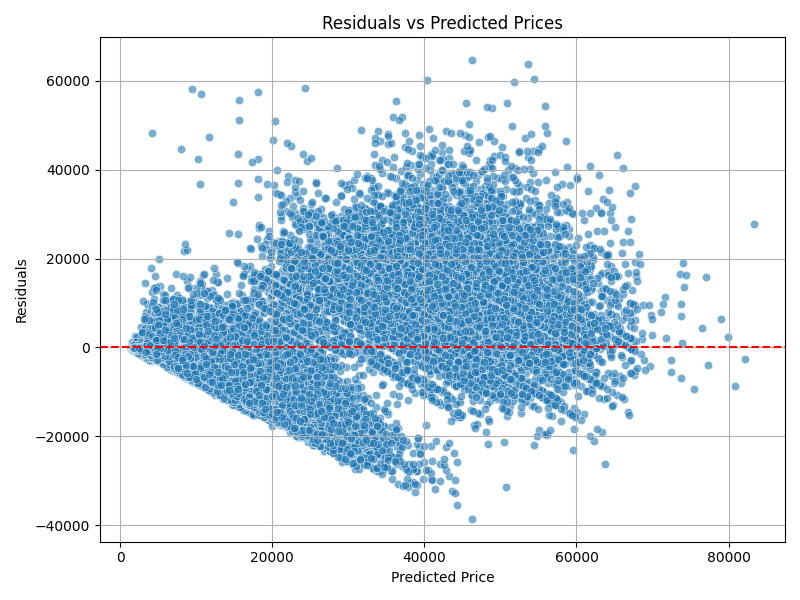
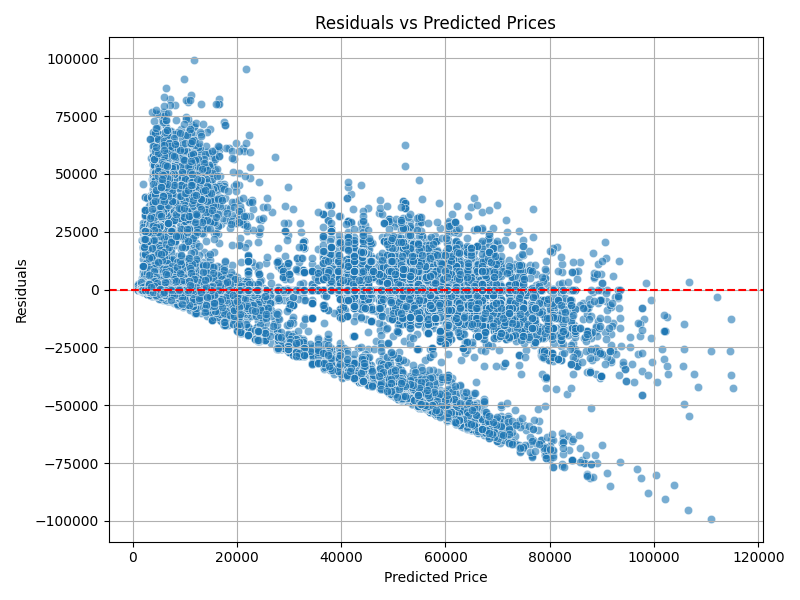
feat: random forest and knn working

diff --git a/src/models/knn.py b/src/models/knn.py
@@ -7,23 +7,26 @@ from sklearn.model_selection import train_test_split
 from sklearn.neighbors import KNeighborsRegressor
 
 
-def train_knn_model(df: pd.DataFrame):
+def train_knn_model(
+    df: pd.DataFrame
+):
     """
-    Train a K-Nearest Neighbors (KNN) regression model on a preprocessed DataFrame.
+    Train a  regression model on a preprocessed DataFrame.
+    Treina um modelo K-Nearest Neighbors (KNN) utilizando um DataFrame já pré-processado
 
     Args:
-        df (pd.DataFrame): Preprocessed dataset including the target column 'price'.
+        df (pd.DataFrame): Dataset já pré-processado, que incluí a coluna que deve ser predita, 'price'.
     """
-    # Categorical columns to encode
+    # Colunas com valores categóricos.
     categorical_cols: list = ["airline", "route_combined", "class"]
-    # One-hot encode categorical variables
+    # One-hot encode para dados categóricos.
     df = pd.get_dummies(df, columns=categorical_cols, drop_first=True)
 
-    # Features and target
     X = df.drop(columns=["price", "Unnamed: 0"], errors="ignore")
-    y = df["price"]
+    # Converte os valores de 'price' com log, para normalizar a resposta.
+    y = np.log1p(df["price"])
 
-    # Split the data (80% train, 20% test)
+    # Separa os dados (80% treino, 20% teste)
     X_train, X_test, y_train, y_test = train_test_split(
         X,
         y,
@@ -31,29 +34,35 @@ def train_knn_model(df: pd.DataFrame):
         random_state=30
     )
 
-    # Initialize the KNN regressor. k=5.
+    # Inicializa o Knn, com k=2.
     knn = KNeighborsRegressor(
-        n_neighbors=12
+        n_neighbors=2
     )
     knn.fit(X_train, y_train)
 
-    # Make predictions
-    y_pred = knn.predict(X_test)
+    # Realiza as predições.
+    y_pred_log = knn.predict(X_test)
+    # Converte os valores de log de volta.
+    y_pred = np.expm1(y_pred_log)
+    y_test_real = np.expm1(y_test)
 
-    # Evaluate the model
-    mae: float = mean_absolute_error(y_test, y_pred)
-    rmse: float = np.sqrt(mean_squared_error(y_test, y_pred))
-    r2: float = r2_score(y_test, y_pred)
+    # Avalia o modelo.
+    mae: float = mean_absolute_error(y_test_real, y_pred)
+    rmse: float = np.sqrt(mean_squared_error(y_test_real, y_pred))
+    r2: float = r2_score(y_test_real, y_pred)
 
-    # Print evaluation metrics
     print(f"MAE: {mae:.2f}")
     print(f"RMSE: {rmse:.2f}")
     print(f"R²: {r2:.2f}")
 
-    # Plot 1: Actual vs Predicted
+    # Plot 1: Valor Real x Valor predito.
     plt.figure(figsize=(8, 6))
-    sns.scatterplot(x=y_test, y=y_pred, alpha=0.6)
-    plt.plot([y_test.min(), y_test.max()], [y_test.min(), y_test.max()], 'r--')
+    sns.scatterplot(x=y_test_real, y=y_pred, alpha=0.6)
+    plt.plot(
+        [y_test_real.min(), y_test_real.max()],
+        [y_test_real.min(), y_test_real.max()],
+        'r--'
+    )
     plt.xlabel("Actual Price")
     plt.ylabel("Predicted Price")
     plt.title("Actual vs Predicted Prices")
@@ -62,8 +71,8 @@ def train_knn_model(df: pd.DataFrame):
     plt.savefig("graphs/knn/actual_vs_predicted.png")
     plt.close()
 
-    # Plot 2: Residuals vs Predicted
-    residuals = y_test - y_pred
+    # Plot 2: Valor residual x Valor Predito.
+    residuals = y_test_real - y_pred
     plt.figure(figsize=(8, 6))
     sns.scatterplot(x=y_pred, y=residuals, alpha=0.6)
     plt.axhline(0, color='red', linestyle='--')

diff --git a/src/models/random_forest.py b/src/models/random_forest.py
@@ -1,9 +1,15 @@
 import matplotlib.pyplot as plt
+import numpy as np
 import pandas as pd
 import seaborn as sns
 from sklearn.compose import ColumnTransformer
 from sklearn.ensemble import RandomForestRegressor
-from sklearn.metrics import r2_score, root_mean_squared_error
+from sklearn.metrics import (
+    mean_absolute_error,
+    mean_squared_error,
+    r2_score,
+    root_mean_squared_error,
+)
 from sklearn.model_selection import train_test_split
 from sklearn.pipeline import Pipeline
 from sklearn.preprocessing import OneHotEncoder
@@ -12,14 +18,16 @@ from sklearn.preprocessing import OneHotEncoder
 def train_random_forest(
     df: pd.DataFrame
 ):
-    # Categorical columns to encode
+    # Colunas com valores categóricos.
     categorical_cols: list = ["airline", "route_combined", "class"]
+    # One-hot encode para dados categóricos.
+    df = pd.get_dummies(df, columns=categorical_cols, drop_first=True)
 
-    # Features and target
     X = df.drop(columns=["price", "Unnamed: 0"], errors="ignore")
-    y = df["price"]
+    # Converte os valores de 'price' com log, para normalizar a resposta.
+    y = np.log1p(df["price"])
 
-    # Split the data (80% train, 20% test)
+    # Separa os dados (80% treino, 20% teste)
     X_train, X_test, y_train, y_test = train_test_split(
         X,
         y,
@@ -27,42 +35,35 @@ def train_random_forest(
         random_state=30
     )
 
-    # Pré-processor
-    preprocessor = ColumnTransformer(
-        transformers=[
-            ('cat', OneHotEncoder(handle_unknown='ignore'), categorical_cols)
-        ],
-        remainder='passthrough'
+    model = RandomForestRegressor(
+        n_estimators=200,
+        random_state=30
     )
 
-    # Pipeline
-    model = Pipeline(
-        steps=[
-            (
-                'preprocessor',
-                preprocessor
-            ),
-            (
-                'regressor', RandomForestRegressor(
-                    n_estimators=100,
-                    random_state=30
-                )
-            )
-        ]
-    )
     model.fit(X_train, y_train)
-    y_pred = model.predict(X_test)
 
-    # Evaluate the model
-    rmse = root_mean_squared_error(y_test, y_pred)
-    r2 = r2_score(y_test, y_pred)
+    y_pred_log = model.predict(X_test)
+
+    # Converte os valores de log de volta.
+    y_pred = np.expm1(y_pred_log)
+    y_test_real = np.expm1(y_test)
+
+    # Avalia o modelo.
+    mae: float = mean_absolute_error(y_test_real, y_pred)
+    rmse: float = np.sqrt(mean_squared_error(y_test_real, y_pred))
+    r2: float = r2_score(y_test_real, y_pred)
+
+    print(f"MAE: {mae:.4f}")
     print(f"RMSE: {rmse:.4f}")
     print(f"R² Score: {r2:.4f}")
 
-    # Create graph.
     plt.figure(figsize=(8, 6))
-    sns.scatterplot(x=y_test, y=y_pred, alpha=0.6)
-    plt.plot([y_test.min(), y_test.max()], [y_test.min(), y_test.max()], 'r--')
+    sns.scatterplot(x=y_test_real, y=y_pred, alpha=0.6)
+    plt.plot(
+        [y_test_real.min(), y_test_real.max()],
+        [y_test_real.min(), y_test_real.max()],
+        'r--'
+    )
     plt.xlabel("Actual Price")
     plt.ylabel("Predicted Price")
     plt.title("Actual vs Predicted Prices")

diff --git a/src/main.py b/src/main.py
@@ -9,18 +9,12 @@ from preprocessing import preprocessing
 matplotlib.use('Agg')
 
 # Comentado pois não precisamos processar novamente os dados, por agora.
-# df = preprocessing(
-#    data="data/Clean_Dataset.csv",
-# )
+# df = preprocessing(data="data/Clean_Dataset.csv")
 
 df = pd.read_csv("data/flights_data_processed.csv")
 
 # Model 1: KNN
-train_knn_model(
-    df=df
-)
+train_knn_model(df=df)
 
 # Model 2: Random Forest
-train_random_forest(
-    df=df
-)
+train_random_forest(df=df)
